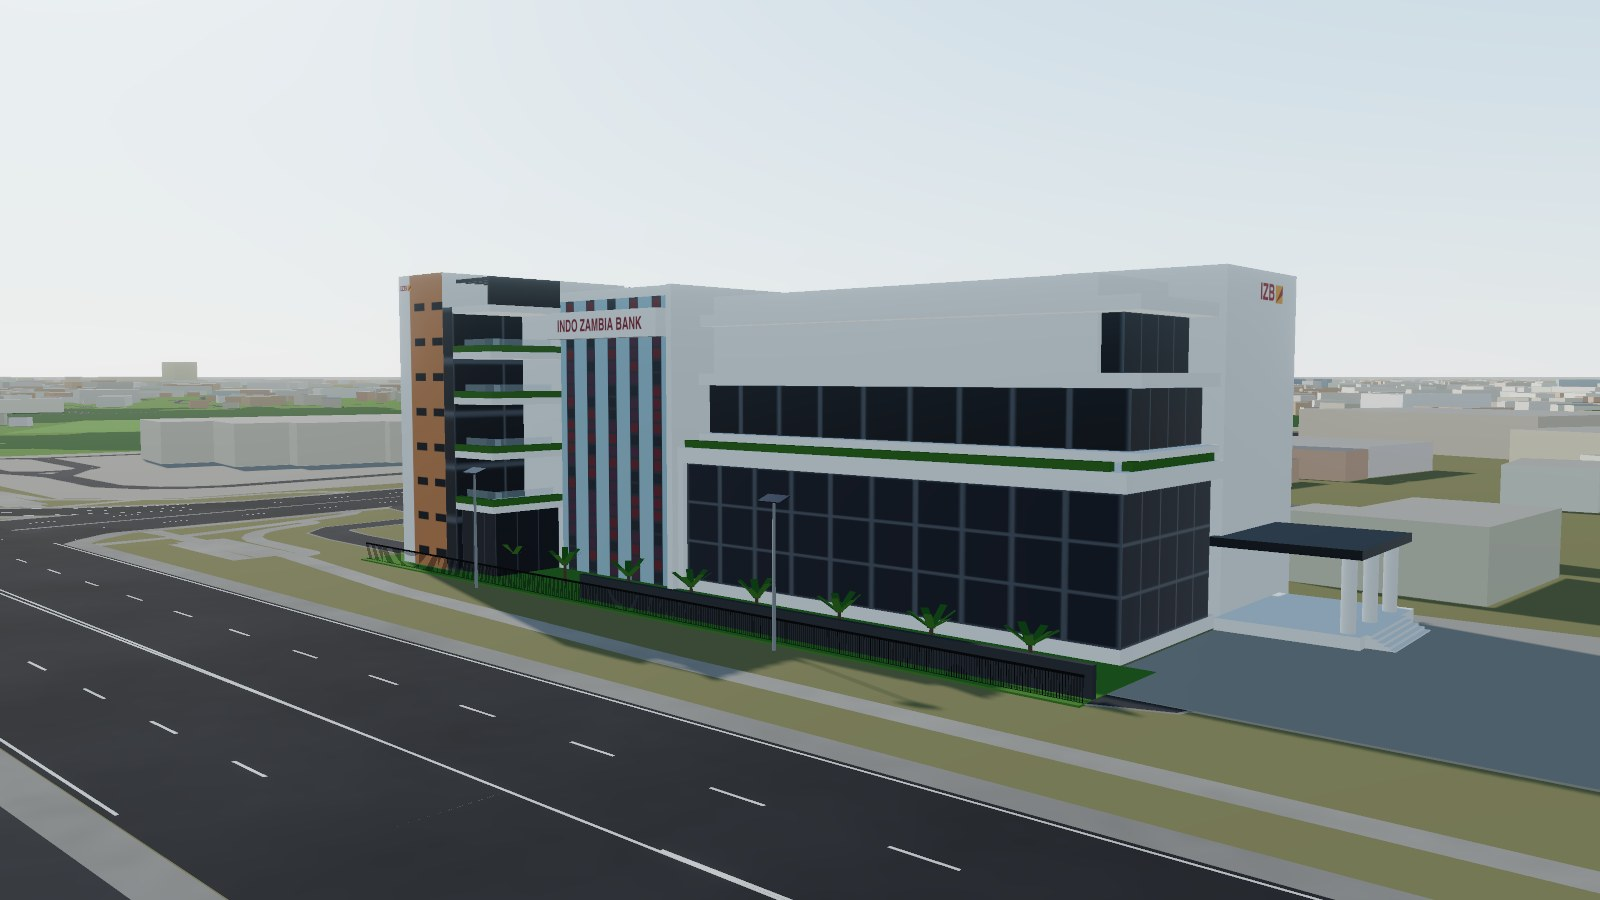
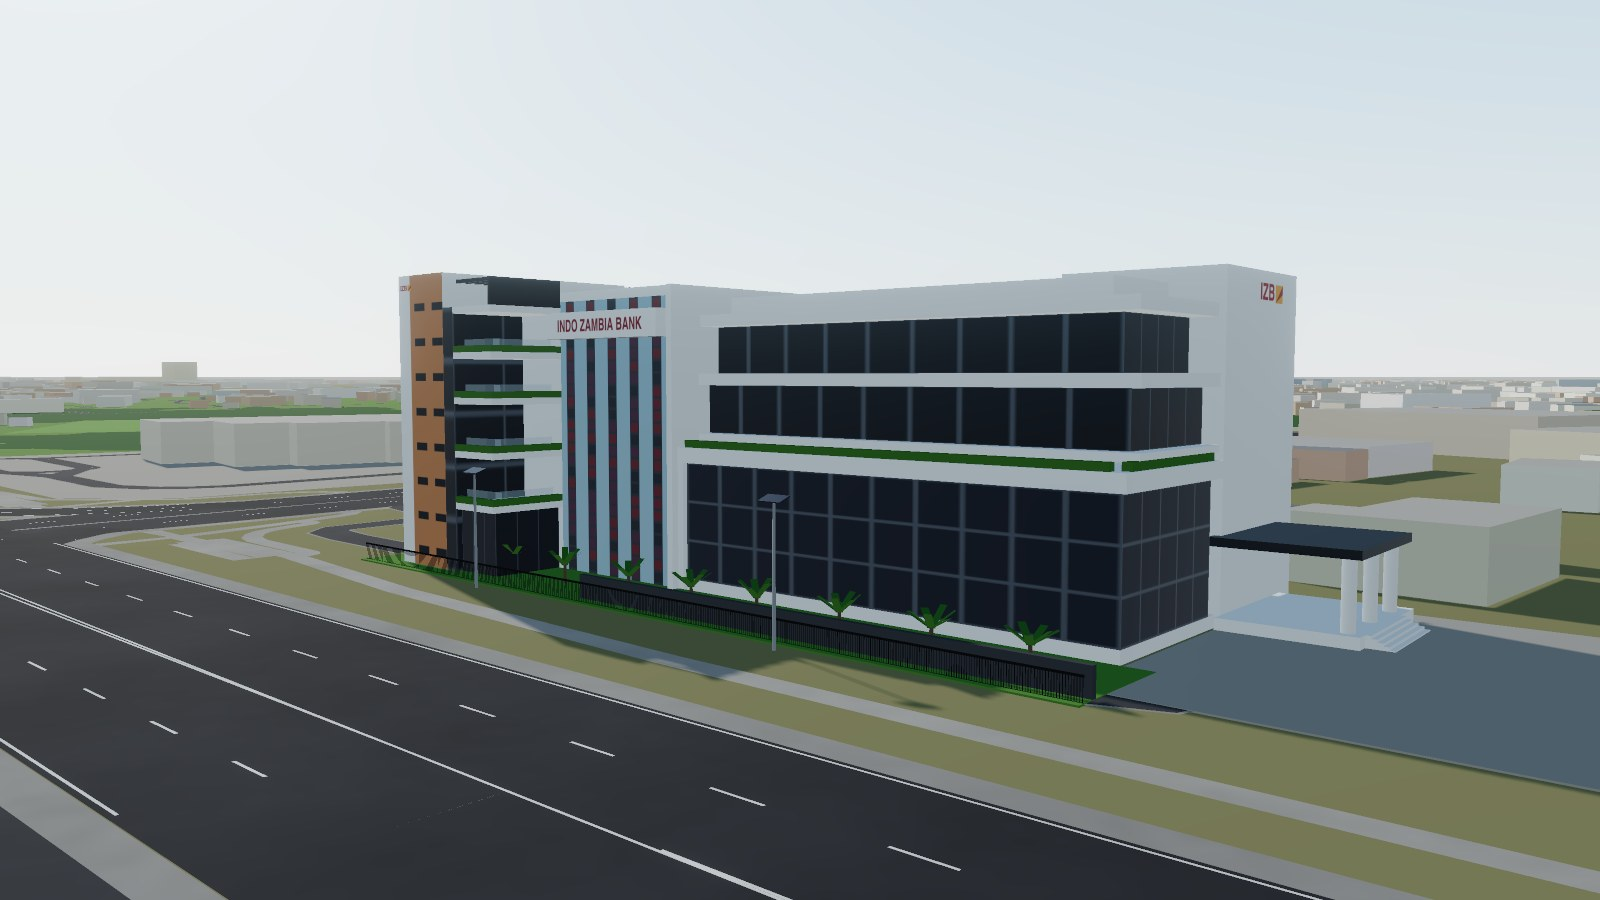
Indo Zambia Bank: show the top tray's glazing; close the hedge at the corner
The white volume behind the trays stood in front of the top tray's glass
and hid most of it; set it back behind both trays. Run the hedge round the
top of the glass box frame without a gap at the corner.

Changed region(s): [[0.4375, 0.3422, 0.6875, 0.4356]]

diff --git a/src/landmarks/indo-zambia-bank.js b/src/landmarks/indo-zambia-bank.js
@@ -245,8 +245,9 @@ export function buildIndoZambiaBank() {
   put(box(g0 + 0.4, g1 - 1.2, 0.4, GD - 1, 0.9, 10, [white, glSide, roof, roof, white, gl]), 'high');
   put(box(g1 - 1.2, g1, 0, GD, 0, 11.2, white), 'high'); // pier against the tower
   put(box(g0, g1, 0, GD, 10, 11.2, white), 'high'); // top slab
-  hedgeOn(g0 + 1, g1 - 1, 0.2, 11.2);
-  put(box(g0 + 0.2, g0 + 0.9, 1.2, GD - 1, 11.2, 11.75, hedge), 'high');
+  // hedges round the top of the frame, meeting at the corner
+  put(box(g0 + 0.2, g1 - 1.2, 0.2, 0.9, 11.2, 11.75, hedge), 'high');
+  put(box(g0 + 0.2, g0 + 0.9, 0.2, GD - 1, 11.2, 11.75, hedge), 'high');
   // two white trays of glazing above, overhanging the road and the forecourt
   const tray = (y0, y1, over, inset) => {
     const tg = glow(curtain(9, 1)), ts = glow(curtain(4, 1));
@@ -256,7 +257,7 @@ export function buildIndoZambiaBank() {
   };
   tray(12.2, 16, 1.2, 1.5);
   tray(16.9, 20.6, 2, 2.5);
-  put(box(g0 + 4, g1, 4, GD, 11.2, 23, white), 'high'); // white volume behind the trays
+  put(box(g0 + 4, g1, 6, GD, 11.2, 23, white), 'high'); // white volume behind the trays (behind both glass faces)
 
   // entrance tower behind the glass box, canopy out over the forecourt
   const [e0, e1, ev0, ev1] = ENTRY;
